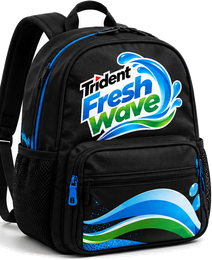
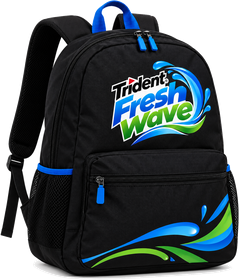
Troca o chaveiro e a mochila da lojinha pelas novas imagens
Claude-Session: https://claude.ai/code/session_01KGJDSpgCByawVvtLiFnrss

diff --git a/loja.html b/loja.html
@@ -114,7 +114,7 @@ var ITENS=[
  {id:'lata',nome:'Fresh Wave 330 ml',sub:'Lata no sabor que você escolher',custo:40,a:'#ffe0bd',b:'#f08a4b',img:'<img class="can" src="clube/lata2.png" alt="">'},
  {id:'kit',nome:'Kit 5 sabores',sub:'Uma lata de cada sabor',custo:160,a:'#d6f0fb',b:'#1f60a0',img:'<img class="cans" src="clube/lata1.png" alt=""><img class="cans" src="clube/lata3.png" alt=""><img class="cans" src="clube/lata5.png" alt="">'},
  {id:'chiclete',nome:'Chiclete Trident',sub:'Pacote de sabor à escolha',custo:20,a:'#d9f7f1',b:'#16a3a0',img:'<img class="prod w" src="clube/chiclete.png" alt="">'},
- {id:'chaveiro',nome:'Chaveiro Fresh Wave',sub:'Em acrílico, com argola',custo:60,a:'#fff4a8',b:'#d9b820',img:'<img class="prod" src="clube/boquinha.png" alt="">'},
+ {id:'chaveiro',nome:'Chaveiro Fresh Wave',sub:'Em acrílico, com argola',custo:60,a:'#fff4a8',b:'#d9b820',img:'<img class="prod" src="clube/chaveiro.png" alt="">'},
  {id:'mochila',nome:'Mochila Trident',sub:'Para levar a onda com você',custo:300,a:'#d6f0fb',b:'#3e9b3a',img:'<img class="prod" src="clube/mochila.png" alt="">'}
 ];
 var st={saldo:120,hist:[
